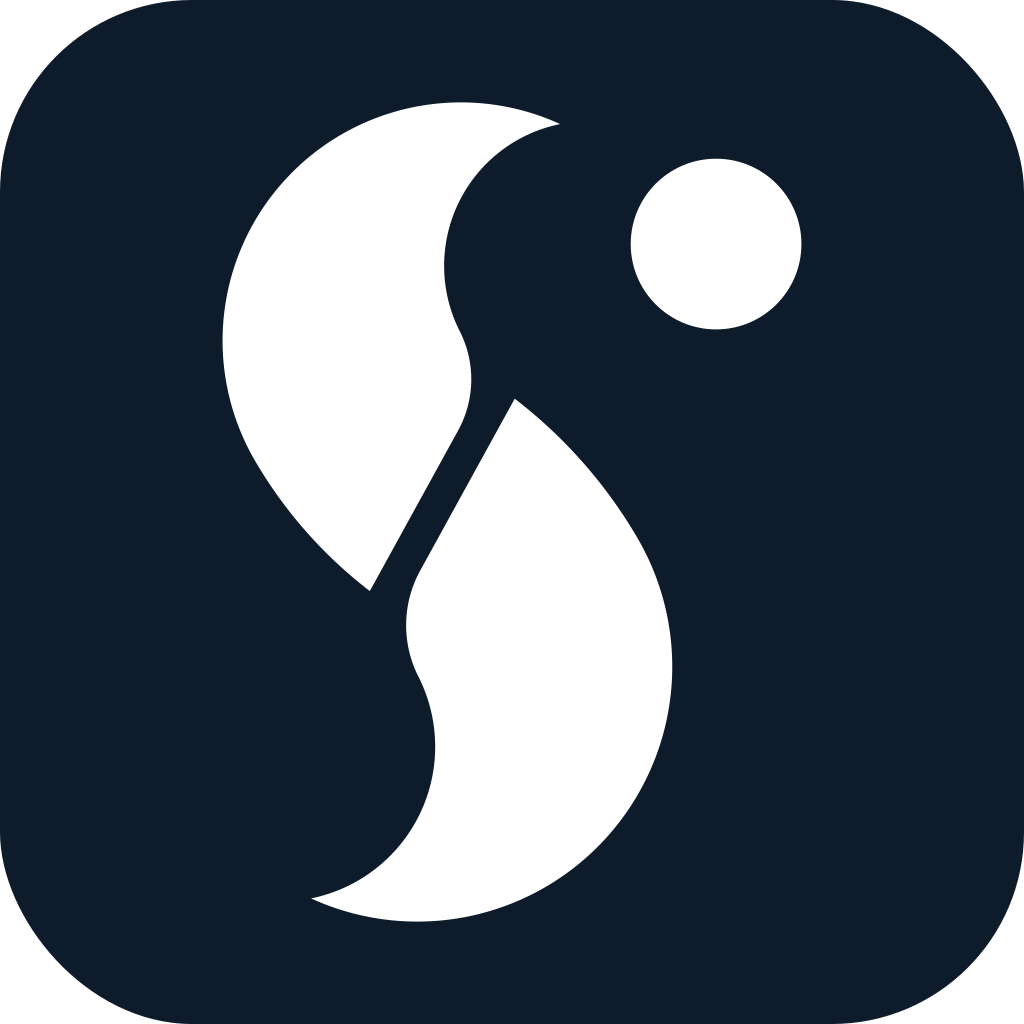
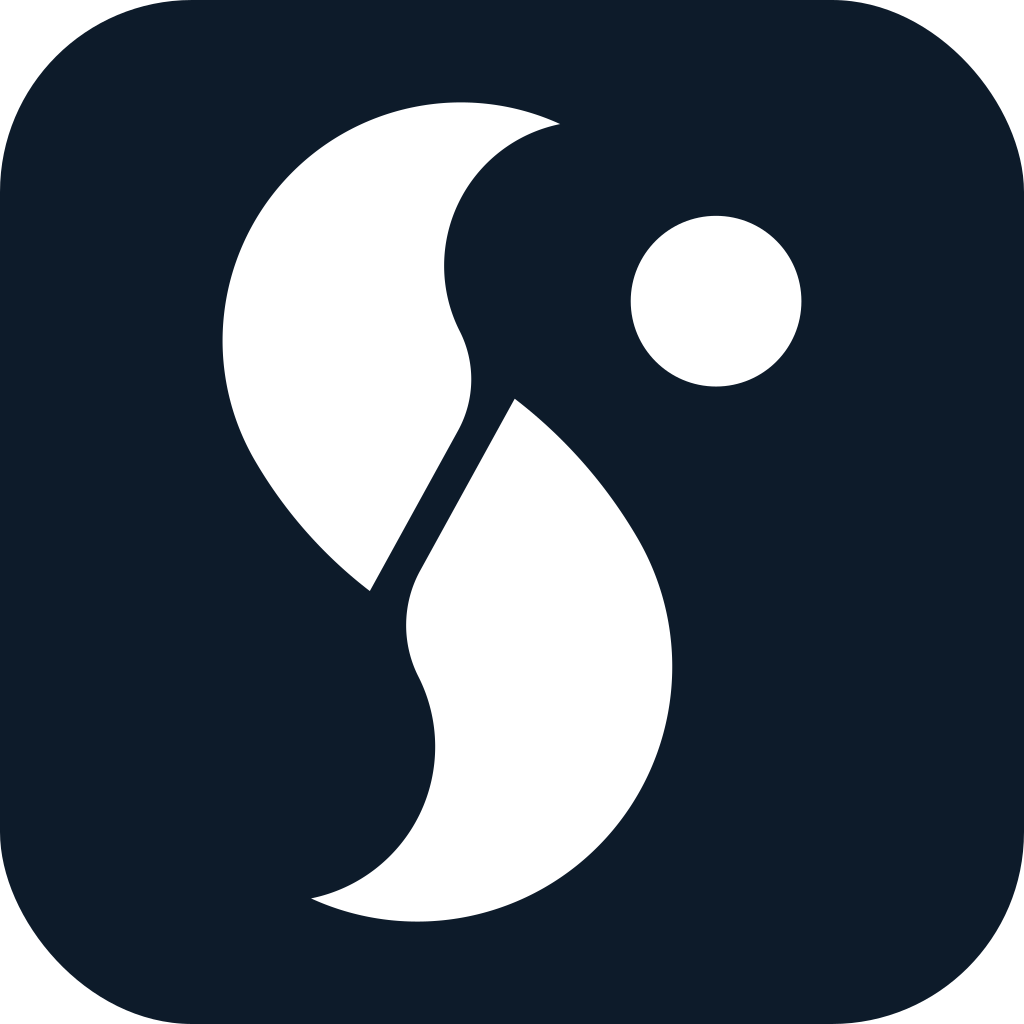
Drop the point 7 units clear of the S's tip
The point sat level with the upper stroke's sharp tip, and the nearest
thing to it anywhere on the S was that tip, aimed straight at it from
13.65 units away. At a 16 px icon that is 2.2 px, which antialiasing
closes: a sharp point aimed at a circle reads as contact even when the
numbers say it is clear.

Dropping the point 7 units opens that approach to 18.46 units, a 35%
increase, while the lower stroke — a broad flank rather than a point —
still keeps 14.95. It also moves the point from 17% to 24% of the
glyph's height, which is where the bowl of a P closes back onto its
stem, so the mark now carries a hint of the P in PsychSift alongside
the S rather than reading as an S with a stray dot beside it.

The move is purely vertical on purpose. The point defines the glyph's
right edge, so any horizontal move would change the ink bounding box
and with it every placement, lockup layout and maskable safe-zone
derived from it. The bounding box is unchanged to four decimal places,
verified against both the ordinary and small-size cuts, so the lockups
and icon placements are regenerated identically.

Claude-Session: https://claude.ai/code/session_018udjLhnir8SEbNjGFjCJzm

Changed region(s): [[0.5938, 0.1562, 0.7812, 0.375]]

diff --git a/docs/brand/preview.html b/docs/brand/preview.html
@@ -651,7 +651,7 @@
             <path
               d="M10.8397 97.54 A18.9638 18.9638 0 0 0 24.0003 70.3687 A13.91 13.91 0 0 1 24.2156 57.3713 L35.7966 36.3105 A58.982 58.982 0 0 1 50.8485 53.3959 A31.245 31.245 0 0 1 10.8397 97.54 Z"
             />
-            <circle cx="60.4716" cy="17.3581" r="10.4586" />
+            <circle cx="60.4716" cy="24.3581" r="10.4586" />
           </g>
           <line class="guide" x1="82.5019" y1="-57.343" x2="-4.2293" y2="100.3838" />
           <line class="guide" x1="86.1822" y1="-55.3193" x2="-0.549" y2="102.4075" />
@@ -675,7 +675,7 @@
             class="edge b"
             d="M10.8397 97.54 A18.9638 18.9638 0 0 0 24.0003 70.3687 A13.91 13.91 0 0 1 24.2156 57.3713 L35.7966 36.3105 A58.982 58.982 0 0 1 50.8485 53.3959 A31.245 31.245 0 0 1 10.8397 97.54 Z"
           />
-          <circle class="edge c" cx="60.4716" cy="17.3581" r="10.4586" />
+          <circle class="edge c" cx="60.4716" cy="24.3581" r="10.4586" />
           <circle class="cusp" cx="41.3675" cy="2.6554" r="1.15" />
           <circle class="cusp" cx="18.0434" cy="59.8793" r="1.15" />
           <circle class="cusp" cx="10.8397" cy="97.54" r="1.15" />
@@ -743,7 +743,7 @@
             </tr>
             <tr>
               <td>The point</td>
-              <td class="n">60.4716, 17.3581</td>
+              <td class="n">60.4716, 24.3581</td>
               <td class="n">10.4586</td>
               <td class="role">43.95 along the cut, 14.90 off it</td>
             </tr>

diff --git a/src/lib/brand-mark.ts b/src/lib/brand-mark.ts
@@ -48,7 +48,7 @@ export const BRAND_STROKE_PATH_SMALL =
 export const BRAND_COUNTER_TRANSFORM = "translate(55.1029 100.3813) scale(-1.07)";
 
 /** The settled point. */
-export const BRAND_POINT = { cx: 60.4716, cy: 17.3581, r: 10.4586 } as const;
+export const BRAND_POINT = { cx: 60.4716, cy: 24.3581, r: 10.4586 } as const;
 
 /** Brand colours per theme. The symbol carries the colour and the ground stays
  *  out of its way: `ink` mirrors --clinical-accent, and `tile` mirrors the page

diff --git a/docs/brand/psychsift-logo.md b/docs/brand/psychsift-logo.md
@@ -157,12 +157,26 @@ approximately — true is what fixes the cut's position; see **The middle line**
 
 ### The point
 
-A circle of radius **10.4586** centred at **(60.4716, 17.3581)**.
+A circle of radius **10.4586** centred at **(60.4716, 24.3581)**.
 
-Measured against the cut, its centre sits **43.95 units along** the cut from the cut's midpoint and
-**14.90 units off** it, on the lower stroke's side. Its nearest approach to the S is 13.65 units —
-a little over three times the width of the cut, which is what keeps it reading as a separate
-particle rather than part of the letter.
+Measured against the cut, its centre sits **37.82 units along** the cut from the cut's midpoint and
+**18.27 units off** it, on the lower stroke's side. Its nearest approach to the upper stroke is
+18.46 units and to the lower stroke 14.95 — both several times the width of the cut, which is what
+keeps it reading as a separate particle rather than part of the letter.
+
+It sat 7 units higher, at (60.4716, 17.3581), until 2026-08-28. The problem was not the size of the
+gap in the abstract but what the gap was measured to: the nearest point on the entire S was the
+upper stroke's sharp tip, and that tip aimed directly at the circle from 13.65 units away — 2.2 px
+at a 16 px icon, which antialiasing closes. A sharp point aimed at a circle reads as contact even
+when the numbers say otherwise. Dropping the circle 7 units opens that approach to 18.46 units
+(+35%) while the lower stroke, a broad flank rather than a point, still keeps 14.95. It also moves
+the circle from 17% to 24% of the glyph's height, which is where the bowl of a **P** closes back
+onto its stem — so the mark now carries a hint of the P in PsychSift alongside the S, which it did
+not when the circle sat level with the tip.
+
+The move is purely vertical, and deliberately so: the circle defines the glyph's right edge, so any
+horizontal move would change the ink bounding box and with it every placement, lockup layout and
+maskable safe-zone derived from it. As drawn, the bounding box is unchanged to four decimal places.
 
 An earlier draft of these files had it at (58.9234, 16.5279) with radius 10.2165. That was a
 measurement error, not a decision: 1.8 units in and 2.3% small, which crowded the S's shoulder and
